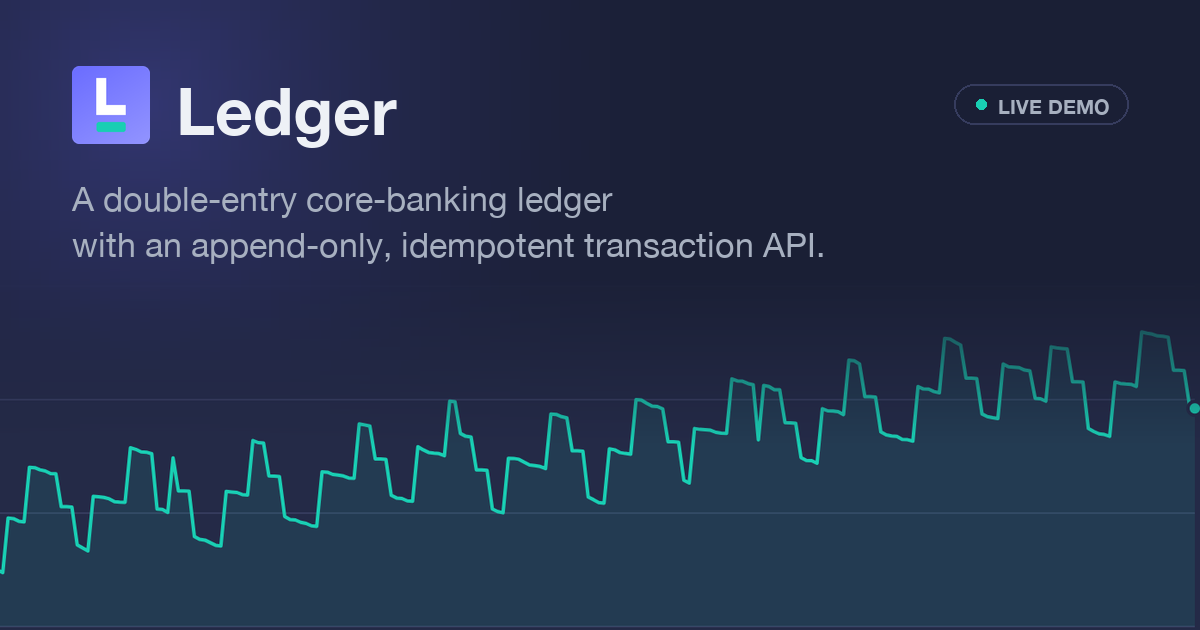
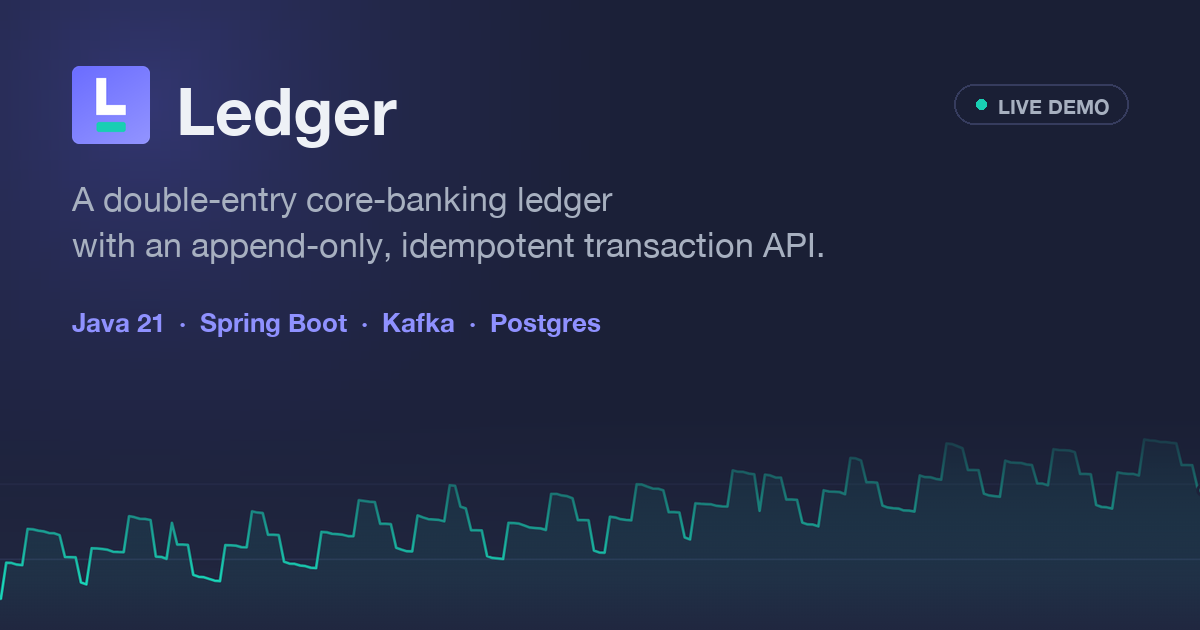
Updated screenshots

Changed region(s): [[0.0, 0.5127, 1.0, 0.9349], [0.0617, 0.4825, 0.4933, 0.5429]]

diff --git a/docs/make-social-assets.py b/docs/make-social-assets.py
@@ -123,7 +123,7 @@ def make_og_image() -> None:
     # title and border, inside the axis labels - so that scaling it to the
     # full 1200px width bleeds it off the left, right and bottom edges with
     # no seam. Those coordinates are specific to docs/screenshot.png.
-    plot = Image.open(SCREENSHOT).convert("RGB").crop((830, 1006, 2448, 1300))
+    plot = Image.open(SCREENSHOT).convert("RGB").crop((832, 1046, 2450, 1340))
     plot_h = round(plot.height * W / plot.width)
     plot = plot.resize((W, plot_h), Image.LANCZOS)
 
@@ -148,6 +148,9 @@ def make_og_image() -> None:
     # long enough to shrink in a chat client's preview.
     d.text((72, 178), "A double-entry core-banking ledger", font=font(34), fill=TEXT)
     d.text((72, 224), "with an append-only, idempotent transaction API.", font=font(34), fill=TEXT)
+
+    # What it is built with, since the card is the first thing a pasted link shows.
+    d.text((72, 306), "Java 21  \u00b7  Spring Boot  \u00b7  Kafka  \u00b7  Postgres", font=font(26, BOLD), fill=ACCENT_STRONG)
 
     # "Live demo" pill, mirroring the connection badge in the app header.
     label, pill_font = "LIVE DEMO", font(20, BOLD)

diff --git a/README.md b/README.md
@@ -13,7 +13,7 @@ post, and nothing already posted is ever edited or deleted.
 backend runs in your browser, so there is nothing to install and no account
 to make.
 
-![Dashboard screenshot](docs/screenshot.png)
+![Dashboard screenshot, running against the Spring Boot services](docs/screenshot.png)
 
 ## What this project actually does
 
@@ -34,21 +34,7 @@ account) happens because that service published an event to Kafka.
 
 ## Architecture
 
-```
-Browser (React dashboard)
-   |  REST /api/v1/**                        WebSocket /ws
-   v
-api-gateway :4000   (Spring Cloud Gateway: routing, CORS, rate limit, JWT, Swagger UI)
-   |-- /api/v1/accounts, /transactions  ->  ledger-service :8081               -> Postgres "ledger"
-   |-- /api/v1/recurring-transfers      ->  recurring-transfer-service :8082   -> Postgres "recurring"
-   |-- /api/v1/insights                 ->  insights-service :8083             -> Postgres "insights"
-   '-- /ws                              ->  notification-service :8084         (sockets only)
-
-Kafka topics
-   ledger.accounts.v1        account.created                    ledger -> recurring (account replica)
-   ledger.transactions.v1    transaction.posted / .reversed     ledger -> insights, notifications
-   recurring.transfers.v1    recurring-transfer.executed / ...  recurring -> notifications
-```
+![Architecture diagram: a React dashboard calls an API gateway, which routes to four Spring Boot services that exchange events over Kafka, each with its own Postgres database](docs/architecture.svg)
 
 | Service | What it owns |
 | --- | --- |
@@ -120,8 +106,9 @@ disagree. The reasoning behind each of these choices is in
 
 ## Tech stack
 
-**Backend:** Java 21, Spring Boot 4.1, Spring Cloud Gateway (2025.1),
-Spring Data JPA and Hibernate, `JdbcClient`, Flyway, Postgres 17, Apache
+**Backend:** Java 21 and the Spring Framework 7, through Spring Boot 4.1
+(Spring MVC, Spring Data JPA with Hibernate, Spring Security, Spring Kafka),
+Spring Cloud Gateway (2025.1), `JdbcClient`, Flyway, Postgres 17, Apache
 Kafka (KRaft) with Spring Kafka, Resilience4j, ShedLock, springdoc-openapi,
 Micrometer and OpenTelemetry, Maven.
 
@@ -214,6 +201,8 @@ All amounts are sent and received as strings of whole cents, for example
 `"1050"` for ten dollars and fifty cents. The base URL is the gateway,
 `http://localhost:4000/api/v1`. The OpenAPI documents for every service are
 browsable at **http://localhost:4000/swagger-ui.html**.
+
+![Swagger UI showing the ledger service's POST /transactions operation](docs/swagger-ui.png)
 
 | Method | Path | Description |
 |---|---|---|

diff --git a/WALKTHROUGH.md b/WALKTHROUGH.md
@@ -8,7 +8,7 @@ way.
 ## The short version
 
 Ledger is a double entry ledger, the same kind of system that sits underneath a bank account or a
-product like Ramp or Brex. The backend is five Java and Spring Boot services behind a Spring Cloud
+product like Ramp or Brex. The backend is five Java services built with Spring Boot on the Spring Framework, behind a Spring Cloud
 Gateway. They talk to each other over REST when one needs an answer and over Kafka when one is
 announcing something that already happened, each keeps its own Postgres database, and a React
 dashboard updates in real time over a WebSocket.
@@ -372,8 +372,10 @@ the negative color reserved for destructive actions like canceling a recurring t
 
 ## Why each technology was chosen
 
-**Java 21 and Spring Boot 4.1.** Java is what most banks run their backends on, and Spring Boot is
-the default way to build Java services. Java 21 is the current long term support release that large
+**Java 21, the Spring Framework and Spring Boot 4.1.** Java is what most banks run their backends on.
+The Spring Framework supplies the core pieces (dependency injection, Spring MVC, transactions, JDBC),
+and Spring Boot sits on top of it with auto-configuration, starters and production features, which
+makes it the default way to build Java services. Java 21 is the current long term support release that large
 companies standardise on, and it brings records (every DTO and event here is one), sealed interfaces
 (the event hierarchy, so a `switch` over events must handle every type or fail to compile), pattern
 matching, and virtual threads, which are switched on for every service. Boot 4.1 is the current
